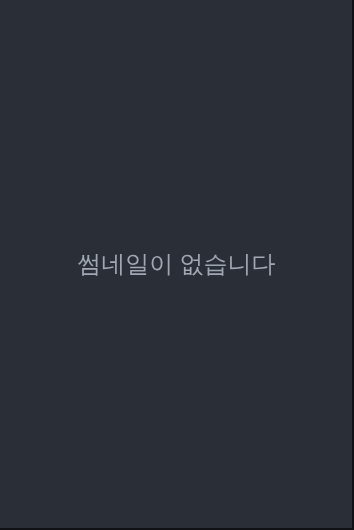
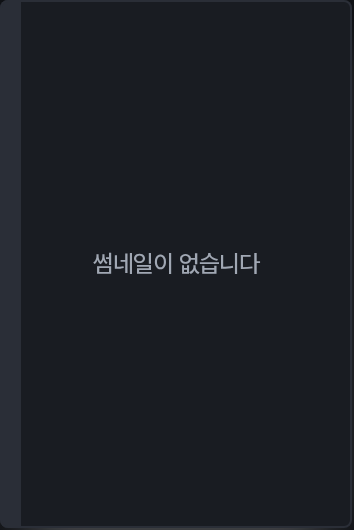
feat(front): 빈 표지 모양, 다크 모드 그림자, 로딩 전환 다듬기
썸네일 없는 표지를 회색 단색 대신 패널과 같은 바탕에 책등 띠와 얇은 테두리를 둔 빈 책 모양으로 바꾸고, 작은 표지용 이미지를 다시 캡처한다. 표지 그림자는 전용 토큰을 써서 다크 모드에서 밝게 번지지 않게 하고, 표지는 다 불러오면 서서히 나타나게 한다.

Changed region(s): [[0.0621, 0.9962, 0.9322, 1.0], [0.2175, 0.4528, 0.7768, 0.5434]]

diff --git a/docs/design/index.html b/docs/design/index.html
@@ -44,6 +44,7 @@
   --on-accent: light-dark(#f7f8ff, #0f1115);
   --feature: light-dark(#1f3fd6, #2a3a8f);
   --on-feature: #f7f8ff;
+  --shadow: light-dark(#14161a, #000);
   --gutter: clamp(16px, 4vw, 56px);
   --ease: cubic-bezier(.16, 1, .3, 1);
   background: var(--bg);
@@ -81,17 +82,20 @@
   .btn.line:hover { background: var(--surface); filter: none; }
 
   /* 표지 */
-  .cover { position: relative; display: block; aspect-ratio: 2/3; border-radius: 4px; overflow: hidden; background: var(--line); color: var(--muted); box-shadow: 0 10px 24px -14px color-mix(in srgb, var(--ink) 55%, transparent); }
+  .cover { position: relative; display: block; aspect-ratio: 2/3; border-radius: 4px; overflow: hidden; background: var(--line); color: var(--muted); box-shadow: 0 10px 24px -14px color-mix(in srgb, var(--shadow) 55%, transparent); }
   /* 썸네일이 없거나 불러오지 못했을 때의 안내 문구 */
   .cover > span { position: absolute; inset: 8px; display: grid; place-items: center; text-align: center; font-weight: 500; line-height: 1.35; font-size: .75rem; }
   /* 불러오는 중: 스켈레톤. 이미지는 다 불러올 때까지 숨긴다 */
   .cover.loading { background: var(--surface); box-shadow: none; animation: sk-pulse 1.4s ease-in-out infinite; }
   .cover.loading > span { display: none; }
   .cover.loading img { opacity: 0; }
+  /* 썸네일 없음: 패널과 같은 바탕에 책등 띠와 얇은 테두리만 둔다 */
+  .cover.empty { background: linear-gradient(90deg, var(--line) 0 6%, var(--surface) 6%); box-shadow: inset 0 0 0 1px var(--line), 0 10px 24px -14px color-mix(in srgb, var(--shadow) 55%, transparent); }
   /* 작은 표지는 글자를 넣기 어려워 안내 문구가 든 표지 이미지를 깐다 */
   .rows .cover.empty, .rv-foot .cover.empty, .cell-book .cover.empty { background-image: url("../../front/public/covers/empty-light.png"); background-size: cover; }
   [data-theme=dark] & :is(.rows, .rv-foot, .cell-book) .cover.empty { background-image: url("../../front/public/covers/empty-dark.png"); }
-  .cover img { position: absolute; inset: 0; width: 100%; height: 100%; object-fit: cover; }
+  /* 다 불러오면 스켈레톤 위로 서서히 나타난다 */
+  .cover img { position: absolute; inset: 0; width: 100%; height: 100%; object-fit: cover; transition: opacity .4s ease; }
 
   /* 히어로 */
   .hero { display: grid; grid-template-columns: minmax(0, 1fr) minmax(0, 1fr); height: min(calc(100dvh - 104px), 760px); min-height: 560px; max-width: 1400px; margin-inline: auto; overflow: hidden; }

diff --git a/front/src/app/globals.css b/front/src/app/globals.css
@@ -34,6 +34,7 @@
   --on-accent: light-dark(#f7f8ff, #0f1115);
   --feature: light-dark(#1f3fd6, #2a3a8f);
   --on-feature: #f7f8ff;
+  --shadow: light-dark(#14161a, #000);
   --gutter: clamp(16px, 4vw, 56px);
   --ease: cubic-bezier(0.16, 1, 0.3, 1);
   background: var(--bg);
@@ -179,7 +180,7 @@
     background: var(--line);
     color: var(--muted);
     box-shadow: 0 10px 24px -14px
-      color-mix(in srgb, var(--ink) 55%, transparent);
+      color-mix(in srgb, var(--shadow) 55%, transparent);
   }
   /* 썸네일이 없거나 불러오지 못했을 때의 안내 문구 */
   .cover > span {
@@ -201,6 +202,13 @@
   .cover.loading img {
     opacity: 0;
   }
+  /* 썸네일 없음: 패널과 같은 바탕에 책등 띠와 얇은 테두리만 둔다 */
+  .cover.empty {
+    background: linear-gradient(90deg, var(--line) 0 6%, var(--surface) 6%);
+    box-shadow:
+      inset 0 0 0 1px var(--line),
+      0 10px 24px -14px color-mix(in srgb, var(--shadow) 55%, transparent);
+  }
   /* 작은 표지는 글자를 넣기 어려워 안내 문구가 든 표지 이미지를 깐다 */
   .rows .cover.empty,
   .rv-foot .cover.empty,
@@ -218,6 +226,8 @@
     width: 100%;
     height: 100%;
     object-fit: cover;
+    /* 다 불러오면 스켈레톤 위로 서서히 나타난다 */
+    transition: opacity 0.4s ease;
   }
   .cover img.swap {
     opacity: 0;

diff --git a/docs/design/README.md b/docs/design/README.md
@@ -7,7 +7,7 @@
 - 맨 위 검은 막대는 화면 이동용 패널입니다. 화면 이동, 로그인 상태(비로그인, 회원, 관리자), 화면 상태(기본, 비어 있음, 로딩)를 바꿀 수 있고, 실제 서비스에는 넣지 않습니다.
 - 회원 서재와 오류 화면은 전용 시안이 없어, `front/`에서는 내 서재와 상태 메시지 스타일을 재사용합니다. 이전 디자인은 git 기록에서 볼 수 있습니다.
 - 도서, 리뷰, 회원은 샘플 데이터입니다. 표지는 Open Library의 원서 표지입니다.
-- 표지는 불러오는 동안 스켈레톤으로 보이고, 썸네일이 없거나 불러오지 못하면 단색 배경(`--line`)에 "썸네일이 없습니다" 문구를 보여 줍니다. 도서마다 색이 다른 글자 표지는 쓰지 않습니다. 글자를 넣기 어려운 작은 표지(홈 순위 목록 2위 이하, 홈 인기 리뷰 카드 하단, 관리자 도서 표)는 문구가 든 큰 표지를 캡처한 이미지(`front/public/covers/empty-light.png`, `empty-dark.png`)를 테마에 맞춰 깝니다. 표지 배경색이나 문구를 바꾸면 이 두 이미지도 다시 캡처해야 합니다. 홈 표지 벽은 정적 표지를 먼저 보여 주므로 스켈레톤·안내 문구를 쓰지 않습니다.
+- 표지는 불러오는 동안 스켈레톤으로 보이고, 다 불러오면 서서히(0.4초 페이드) 나타납니다. 썸네일이 없거나 불러오지 못하면 패널과 같은 바탕(`--surface`)에 책등 띠와 얇은 테두리(`--line`)를 두른 빈 책 모양에 "썸네일이 없습니다" 문구를 보여 줍니다. 도서마다 색이 다른 글자 표지는 쓰지 않습니다. 글자를 넣기 어려운 작은 표지(홈 순위 목록 2위 이하, 홈 인기 리뷰 카드 하단, 관리자 도서 표)는 문구가 든 큰 표지를 캡처한 이미지(`front/public/covers/empty-light.png`, `empty-dark.png`)를 테마에 맞춰 깝니다. 표지 배경색이나 문구를 바꾸면 이 두 이미지도 다시 캡처해야 합니다. 홈 표지 벽은 정적 표지를 먼저 보여 주므로 스켈레톤·안내 문구를 쓰지 않습니다.
 - `dev` 프로필의 초기 데이터(`BaseInitData.work2`)는 이 샘플 도서, 회원, 리뷰, 찜, 집계 값을 그대로 넣습니다. 여기에 썸네일 없음 안내를 확인하기 위한 표지 없는 도서 4권(시안에는 없음)을 더합니다. `test` 프로필은 테스트가 의존하는 기존 데이터(`work1`)를 씁니다. 회원이 한 명이라도 있는 DB에는 적용되지 않으므로, 기존 로컬 DB는 지워야 반영됩니다.
 - 색상 토큰과 레이아웃은 `.home-a` 안에 있습니다. 모서리는 표지 4px, 패널 16px, 상호작용 요소 pill입니다.
 - 홈 헤더의 `도서 검색`은 페이지 최상단으로, `독서 트렌드`와 `리뷰`는 각 섹션으로 이동합니다. `내 서재`는 로그인해야 보이고, `관리자`는 관리자 계정에만 강조 표시로 보입니다.
